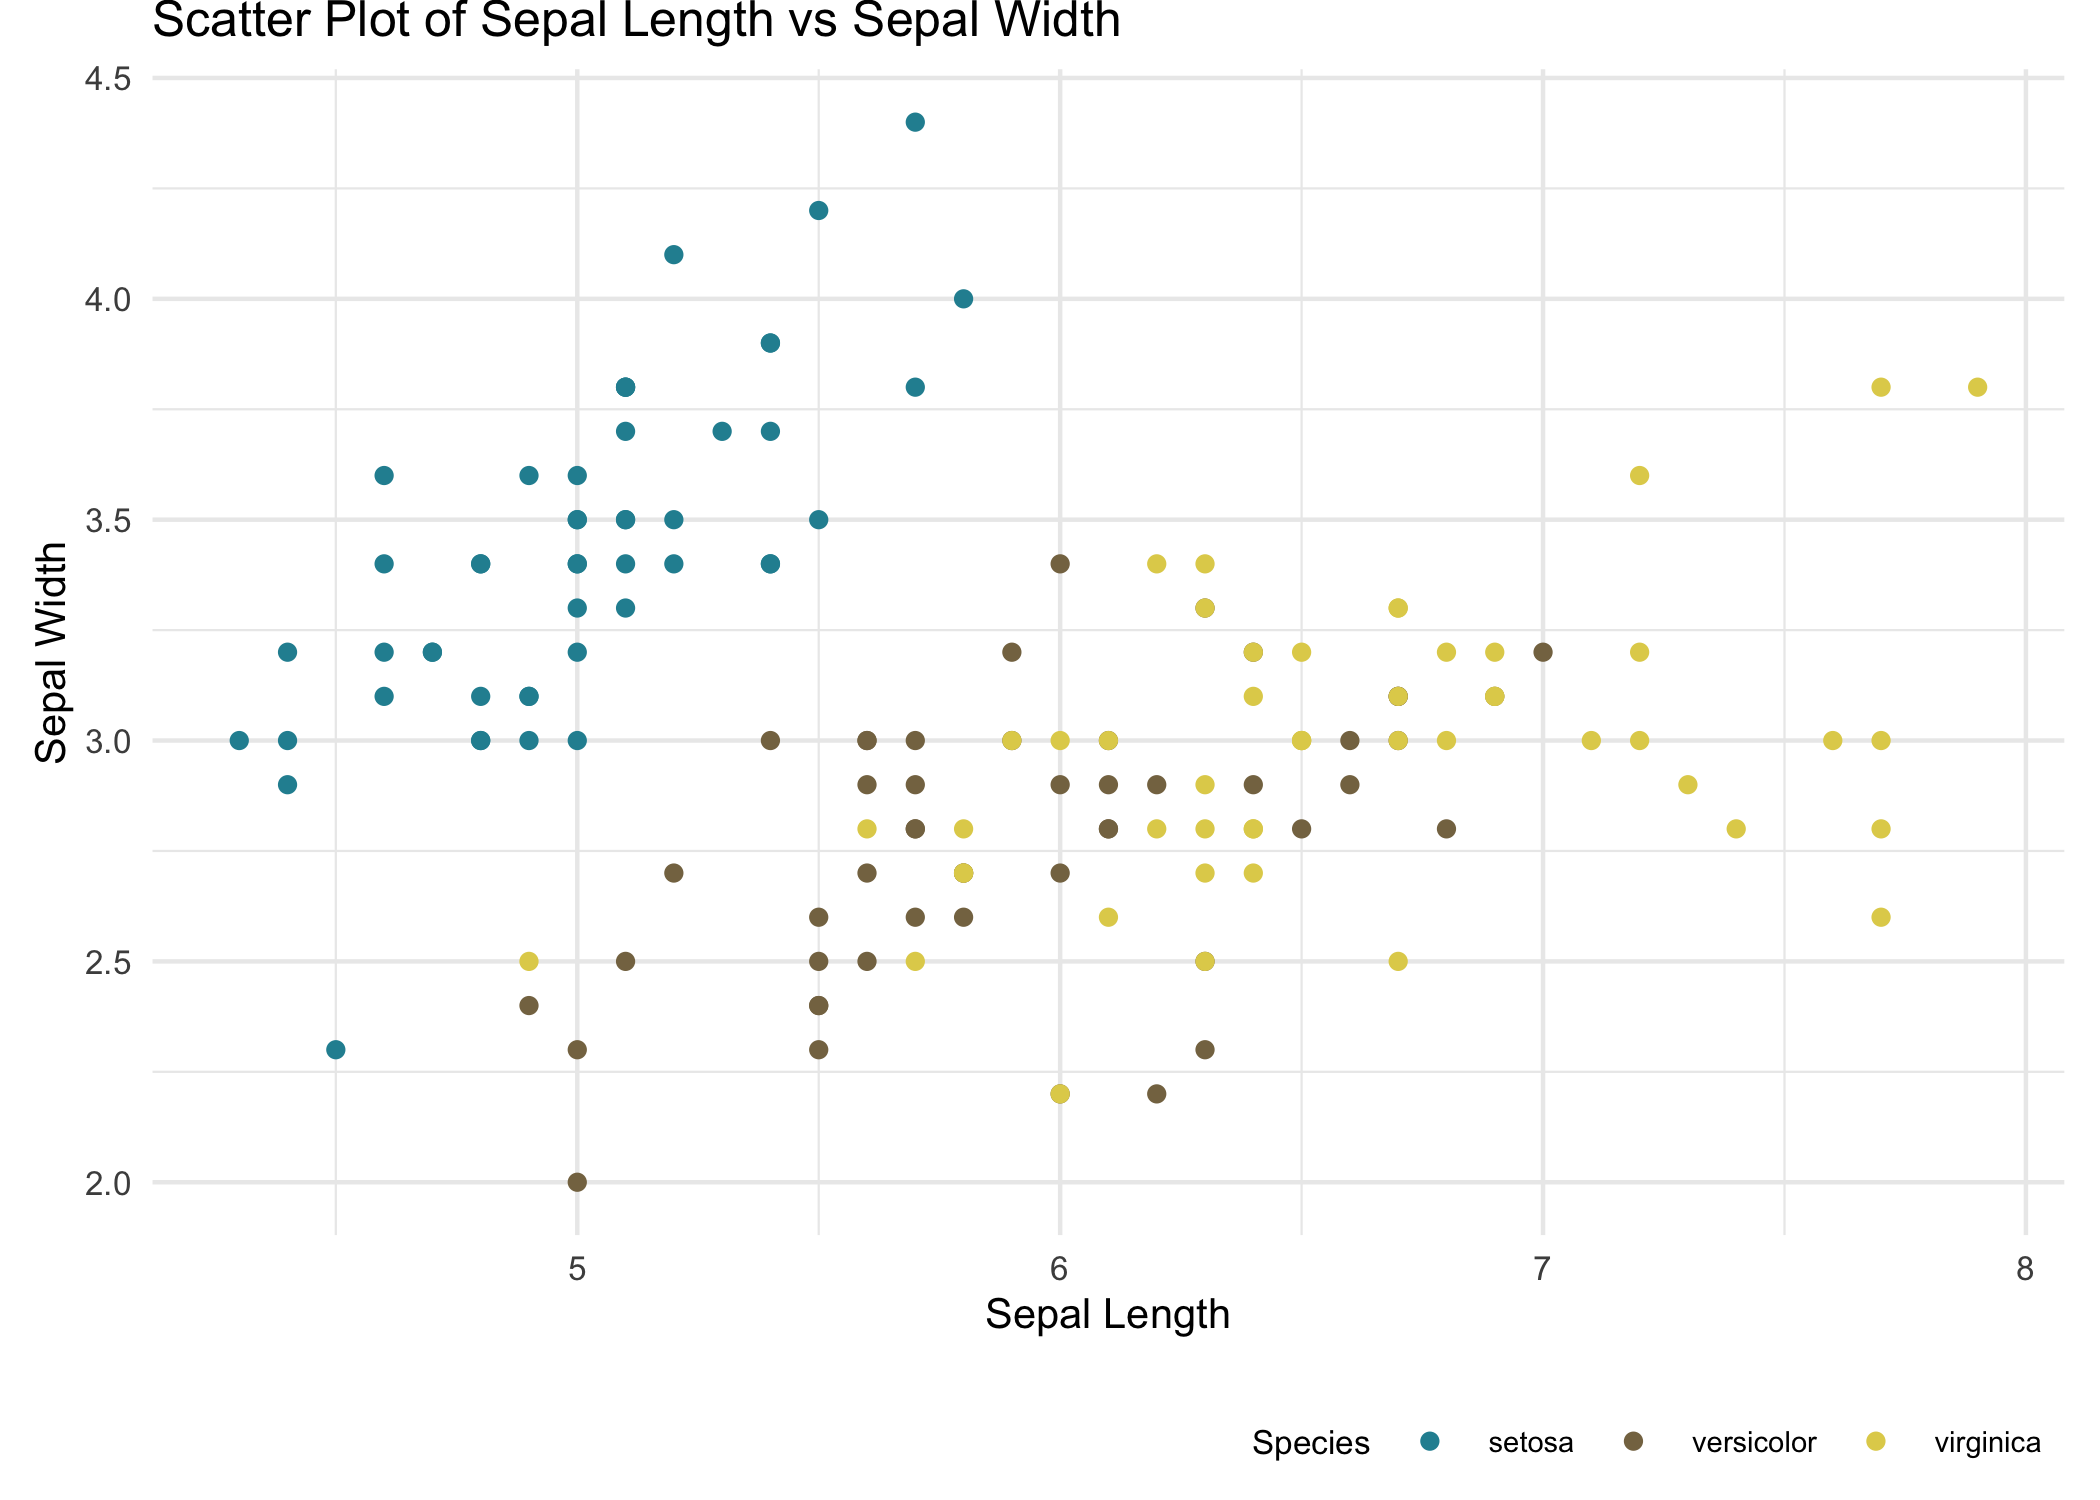
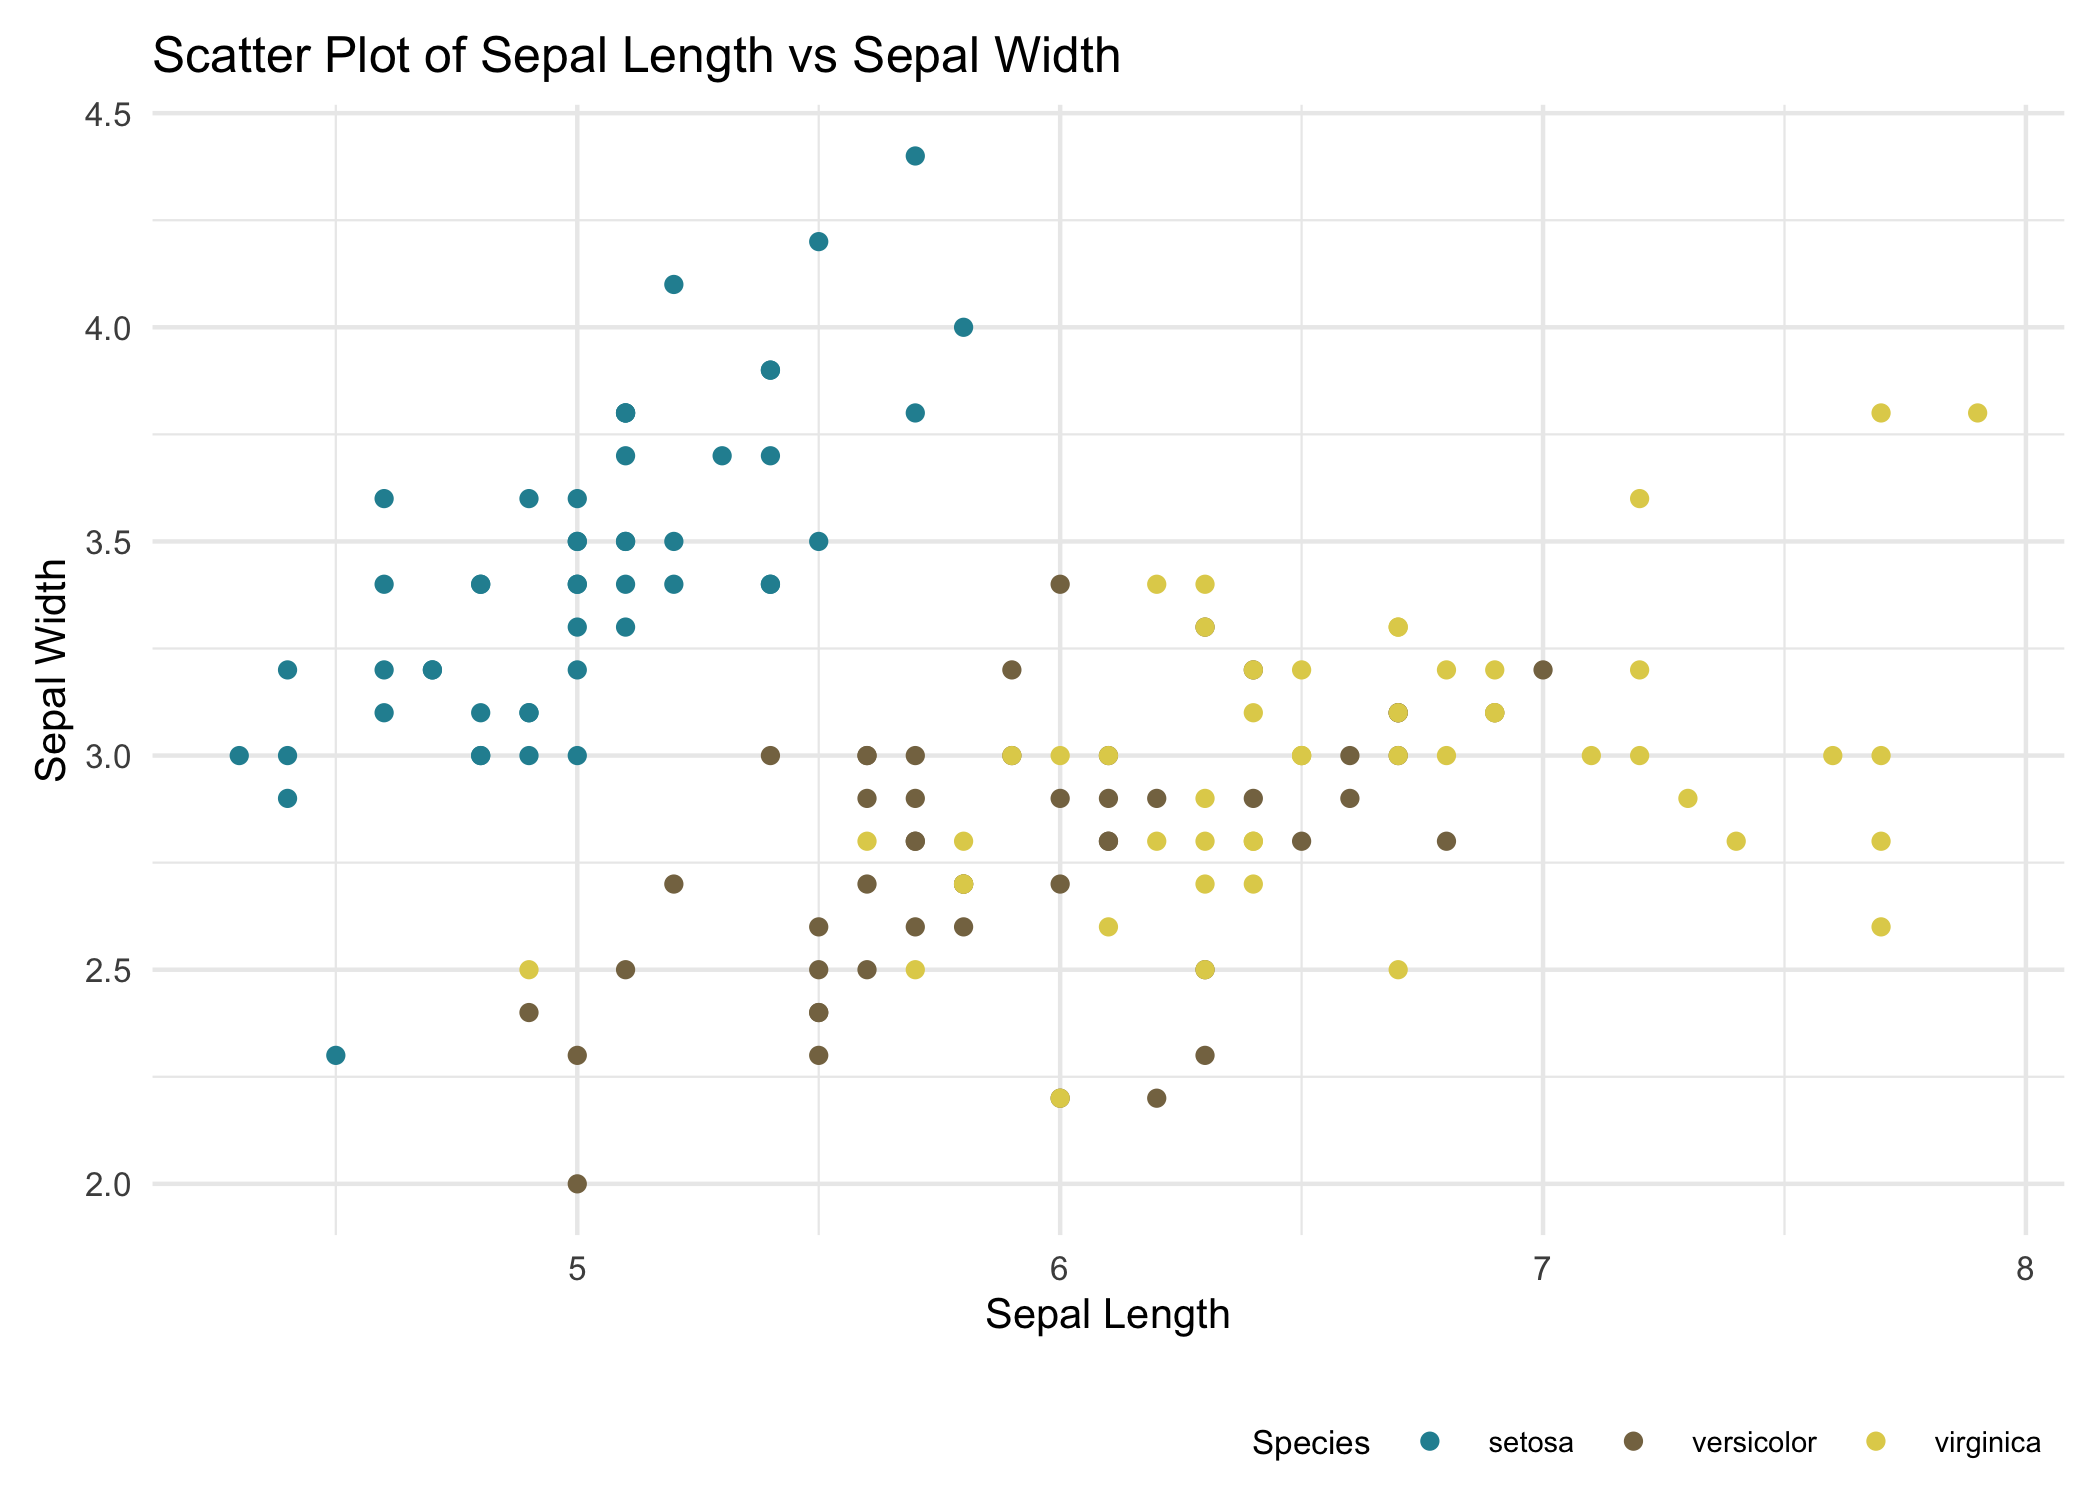
styler and lintr

diff --git a/README.md b/README.md
@@ -55,10 +55,12 @@ in Finland.
 ``` r
 ggplot(iris, aes(x = Sepal.Length, y = Sepal.Width, color = Species)) +
   geom_point() +
-  labs(title = "Scatter Plot of Sepal Length vs Sepal Width",
-       x = "Sepal Length",
-       y = "Sepal Width")+
-  scale_color_paimio(palette = "contrast", reverse = TRUE)+
+  labs(
+    title = "Scatter Plot of Sepal Length vs Sepal Width",
+    x = "Sepal Length",
+    y = "Sepal Width"
+  ) +
+  scale_color_paimio(palette = "contrast", reverse = TRUE) +
   theme_sdlh()
 ```
 
